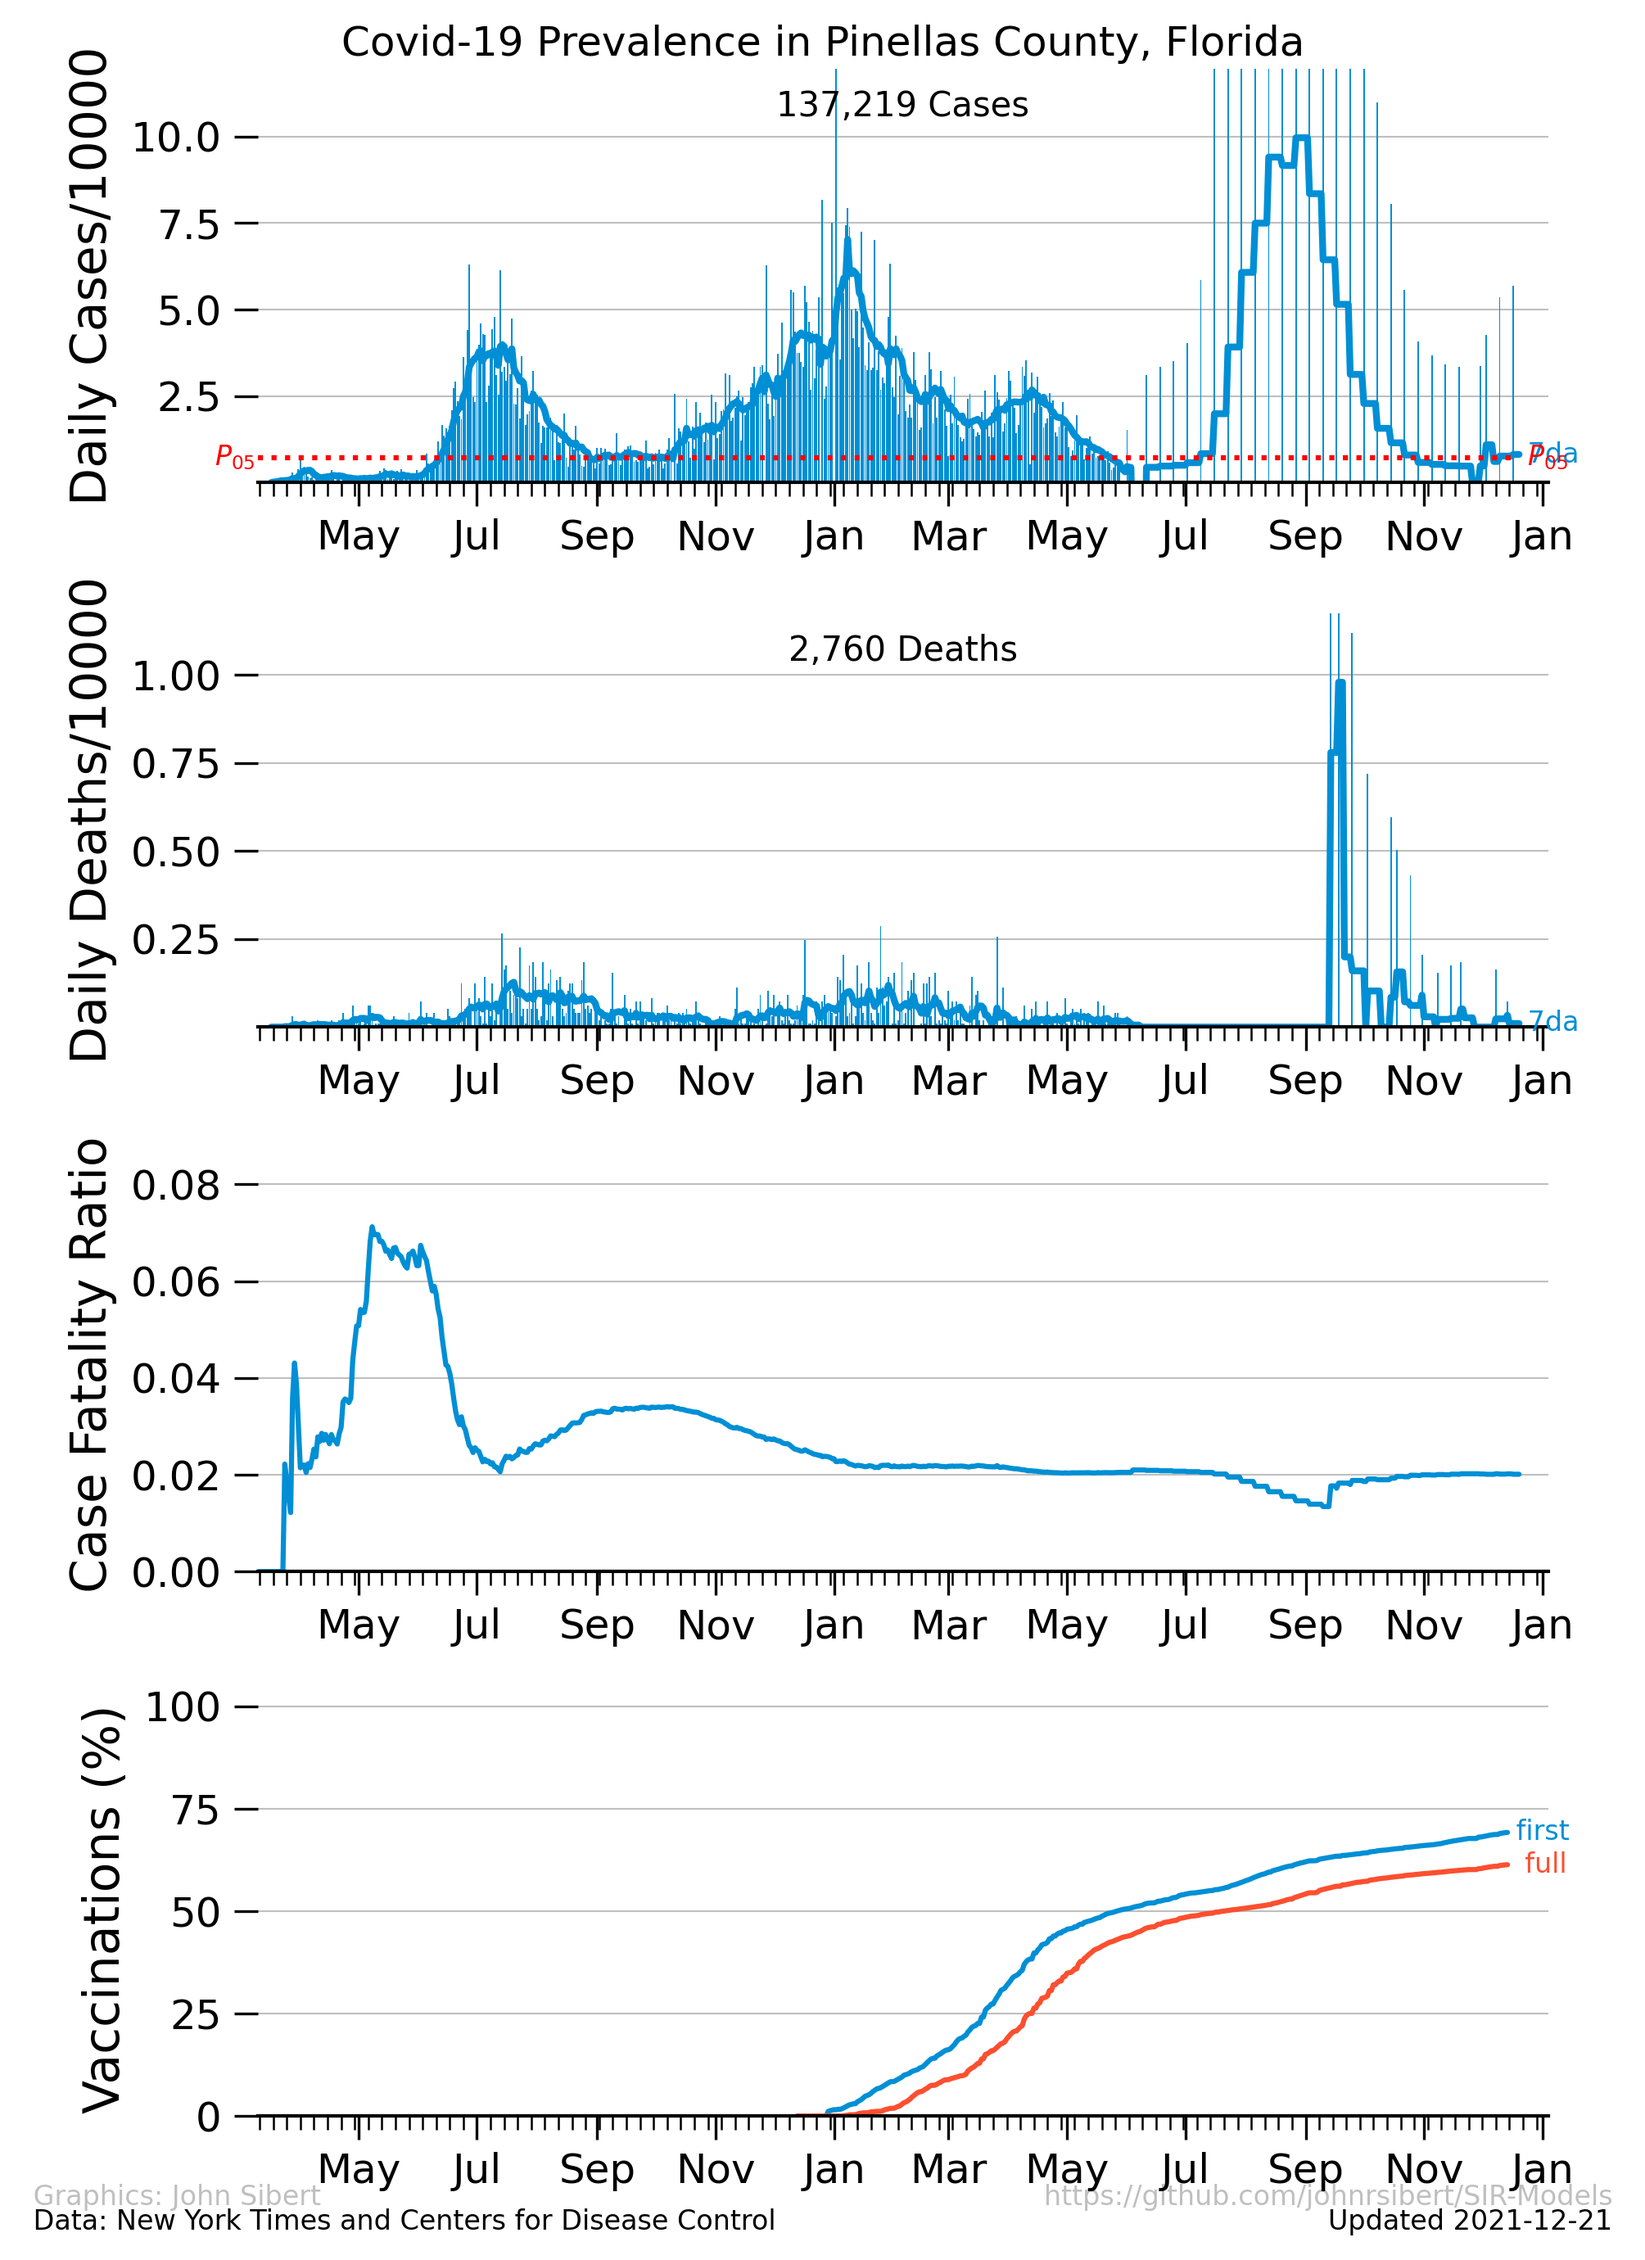
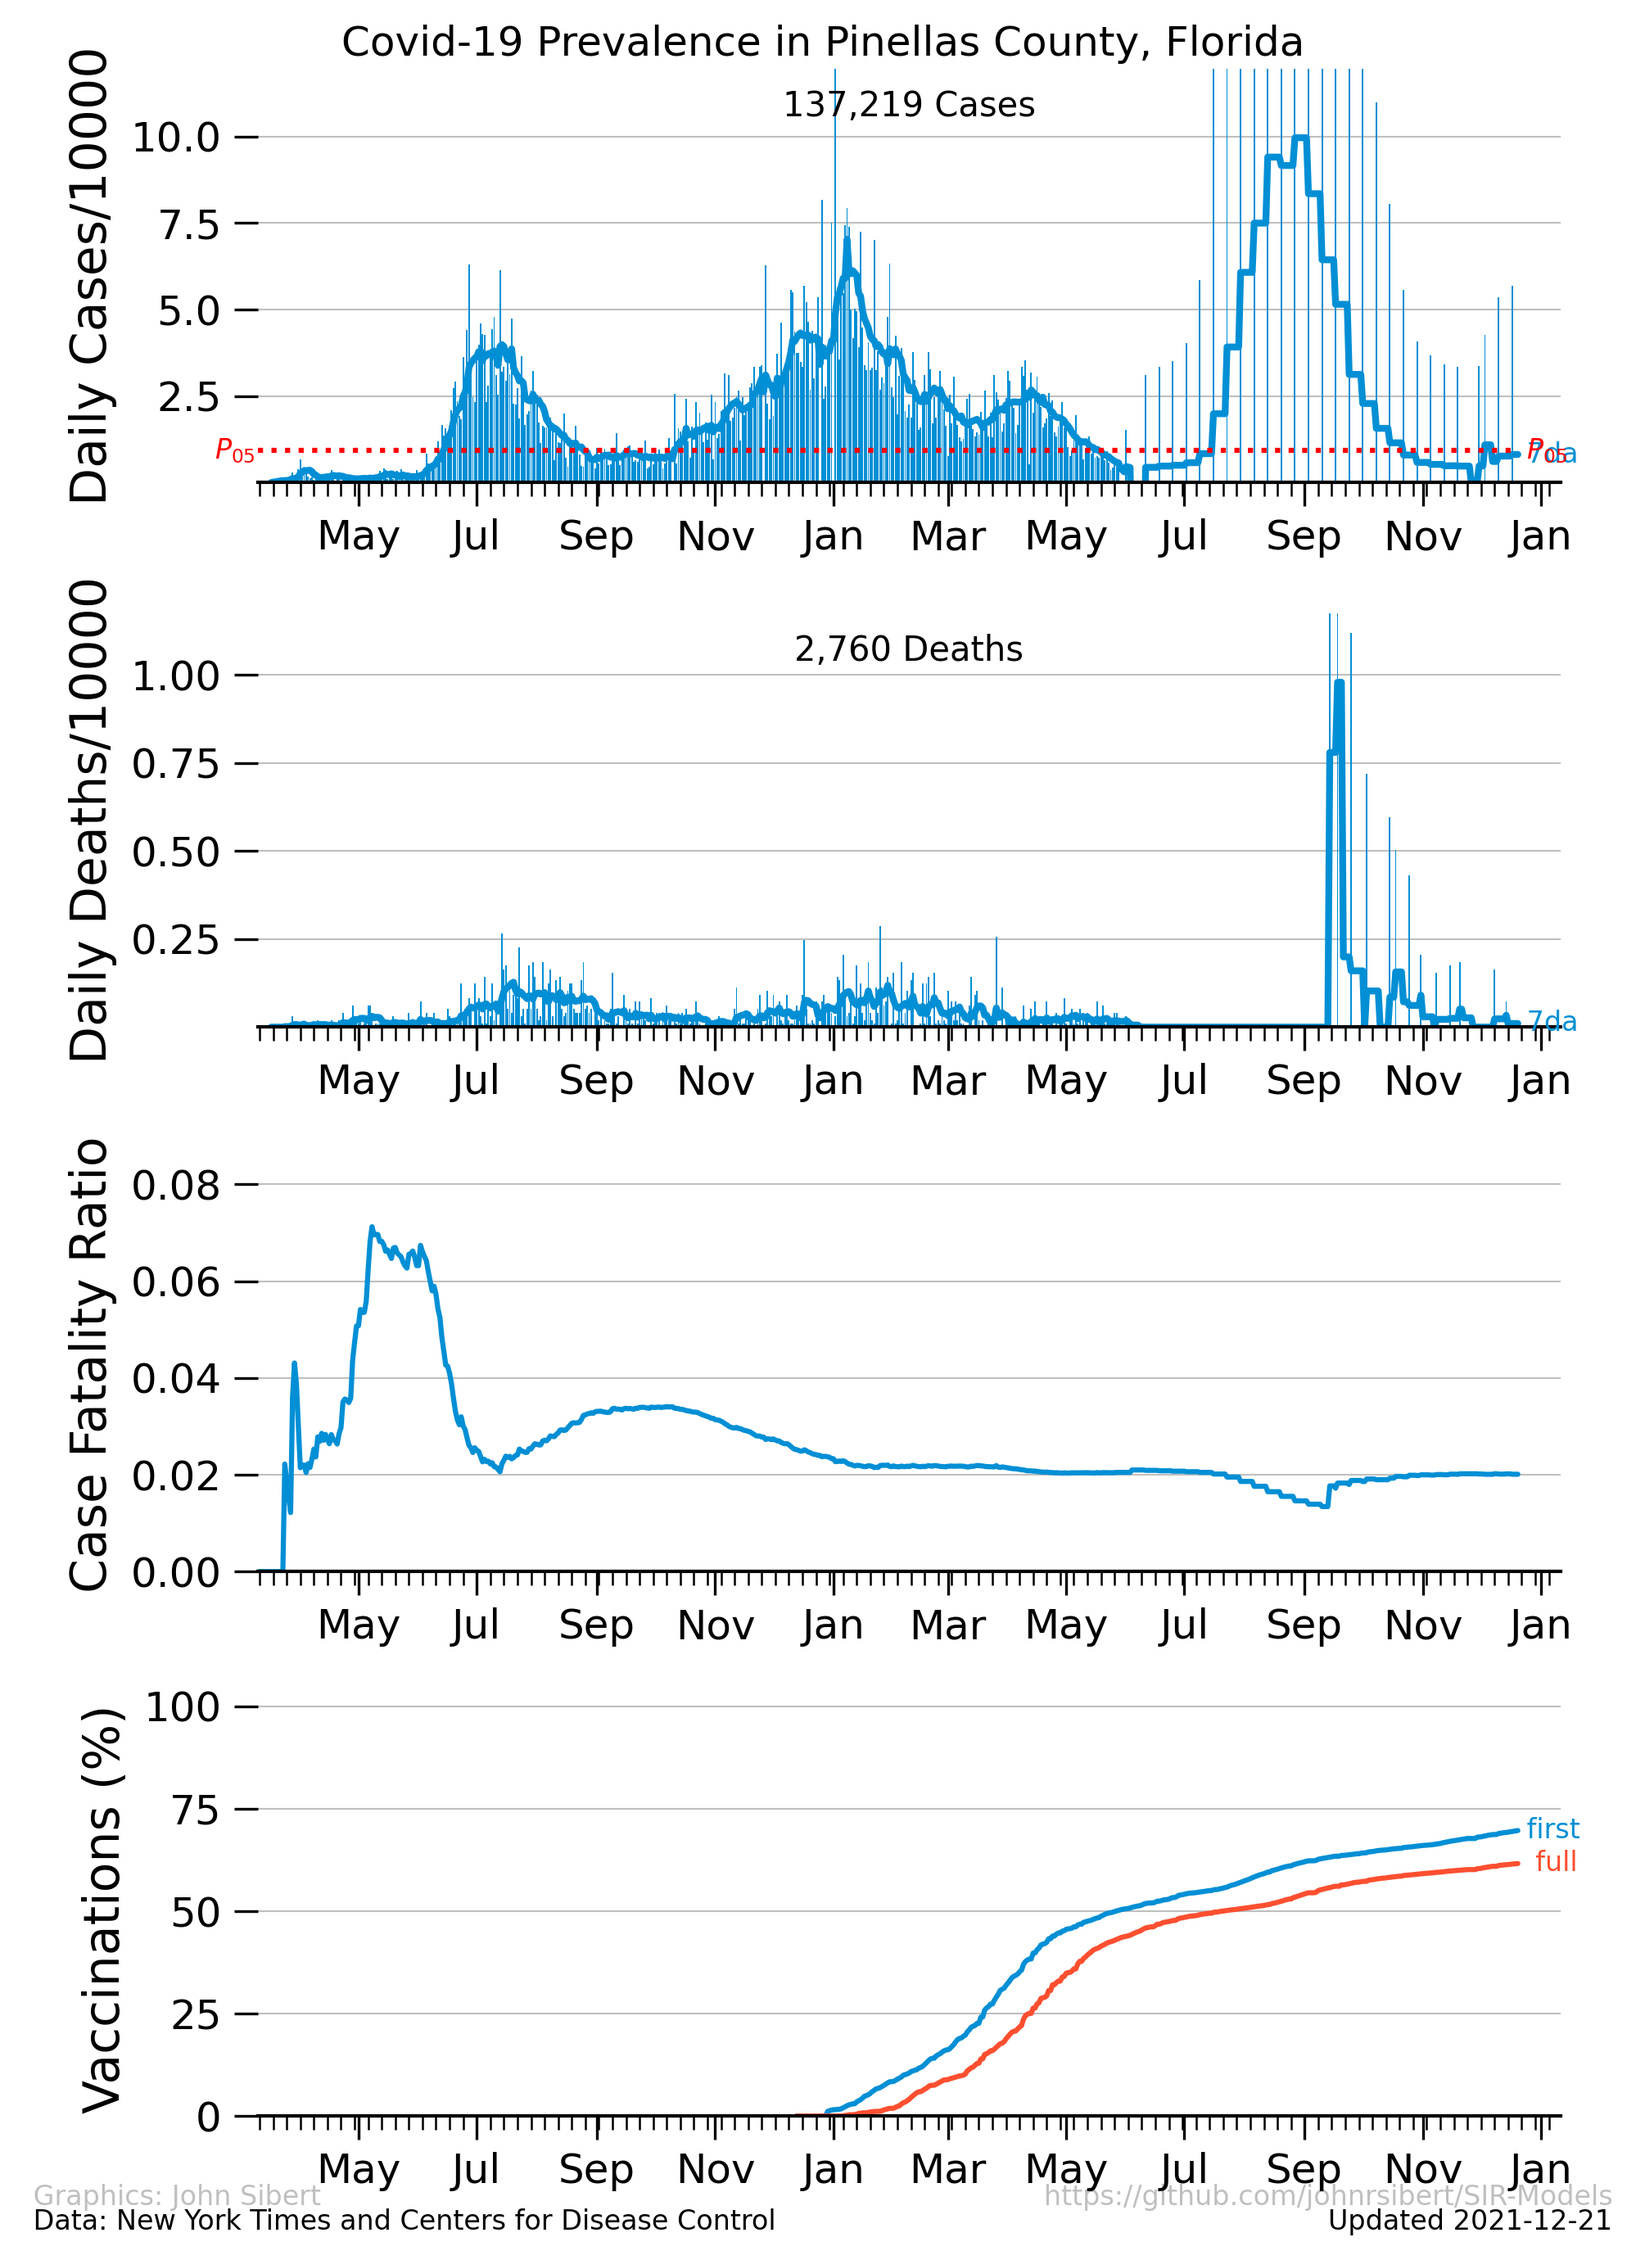
add percentile line to all prev plots; upgrade geography selection

diff --git a/python/cv21.py b/python/cv21.py
@@ -283,8 +283,7 @@ def web_update():
     print('Updated CDC vax data')
 
 def make_dat_files():
-    nyt_counties = pd.read_csv(cv.GeoIndexPath,header=0,comment='#')
-#   gg_filter = nyt_counties['flag'] == 1
+    nyt_counties = cv.GeoIndex # pd.read_csv(cv.GeoIndexPath,header=0,comment='#')
     gg_filter = nyt_counties['flag'].str.contains('m')
     gg = nyt_counties[gg_filter]
     print(gg)
@@ -296,10 +295,13 @@ def make_dat_files():
         tmpG.read_nyt_data('county')
         tmpG.read_vax_data()
         tmpG.write_dat_file()
-        tmpG.plot_prevalence(save=True,cumulative=False, show_order_date=False,
-             show_superspreader=False,per_capita=True,nax = 4)
+     #  tmpG.plot_prevalence(save=True,cumulative=False, show_order_date=False,
+     #      show_superspreader=False,per_capita=True,nax = 4)
 
 def update_fits(njob=4):
+    
+    make_dat_files()    
+    
     save_wd = os.getcwd()
     print('save:',save_wd)
     print(cv.TMB_path)
@@ -320,24 +322,25 @@ def update_fits(njob=4):
     print('Finished',cmd)
     os.chdir(save_wd)
     print('current',os.getcwd())
-
-def update_shared_plots():
+    
+def make_prevalence_plots(flags = ['m']):
     quartiles = GG.plot_prevalence_comp_histo(flag='500000',window=15,save=True, 
                                               signature=True)
     print('precalence quartiles:',type(quartiles))
     print(quartiles)
     print('q[0.05] =',quartiles[0.05])
-    update_html()
-
-    nyt_counties = pd.read_csv(cv.GeoIndexPath,header=0,comment='#')
-    gg_filter = nyt_counties['flag'].str.contains('s')
-#   print(gg_filter)
+    
+    nyt_counties = cv.GeoIndex
+    # get rid of blank flag fields
+    nyt_counties = nyt_counties[ nyt_counties['flag'] != ' ']
+    
+    gg_filter = pd.Series(index=nyt_counties.index,dtype=bool)
+    # 'or' the flags with the flag field
+    for f in flags:
+        gg_filter = gg_filter | nyt_counties['flag'].str.contains(f)
+        
     gg = nyt_counties[gg_filter]
-    print('gg:')
-    print(gg)
-    save_path = cv.graphics_path
-    cv.graphics_path = cv.cv_home+'PlotsToShare/'
-    plt.rc('figure', max_open_warning = 0)
+    
     for g in range(0,len(gg)):
         print(gg['county'].iloc[g])
         tmpG = GG.Geography(name=gg['county'].iloc[g], enclosed_by=gg['state'].iloc[g],
@@ -347,45 +350,36 @@ def update_shared_plots():
         else:
             tmpG.read_nyt_data('county')
             tmpG.read_vax_data()
-
-
-#       tmpG.read_nyt_data('county')
+            
         tmpG.plot_prevalence(save=True,signature=True,cumulative=False,
                              show_order_date=False,per_capita=True,low_prev=quartiles[0.05])
-
-    GG.plot_prevalence_comp_TS(flag='m',low_prev=quartiles[0.05],save=True, signature=True)
-
-#   tmpG = GG.Geography(name='Vancouver Island',enclosed_by='British Columbia',code='BC')
-#   tmpG.read_BCHA_data()
-#   tmpG.plot_prevalence(save=True,signature=True,cumulative=False,
-#                        show_order_date=False)
-
-
-    cv.graphics_path = save_path
-
-#   os.system('git commit ~/Projects/SIR-Models/PlotsToShare/\*.png -m "Update PlotsToShare"')
-#   os.system('git push')
-
+   
+def update_shared_plots():
+    
+    shared_plots = ['AlamedaCA_prevalence.png','District_of_ColumbiaDC_prevalence.png', 
+                    'FairfaxVA_prevalence.png','HonoluluHI_prevalence.png',
+                    'Los_AngelesCA_prevalence.png','MarinCA_prevalence.png', 
+                    'MendocinoCA_prevalence.png','MultnomahOR_prevalence.png',
+                    'OtsegoNY_prevalence.png','PinellasFL_prevalence.png',
+                    'PlumasCA_prevalence.png','San_DiegoCA_prevalence.png',
+                    'San_FranciscoCA_prevalence.png','Santa_ClaraCA_prevalence.png',
+                    'SonomaCA_prevalence.png','TompkinsNY_prevalence.png',
+                    'Vancouver_IslandBC_prevalence.png']
+    #'days_of_week_1000.png','days_of_week_5.png','prevalence_comp_TS_m.png', 
+    shared_path = cv.cv_home+'PlotsToShare/'
+    for file in shared_plots:
+        cmd = 'cp -pvf '+ cv.graphics_path+file+' '+ shared_path
+        os.system(cmd)
+  
 def update_assets():
     asset_files=['prevalence_comp_TS_m.png','recent_prevalence_histo_pop.png',
                  'New_York_CityNY_prevalence.png','Los_AngelesCA_prevalence.png',
                  'CFR_all_5.png','CFR_all_0000.png','CFR_hist_all_recent.png','CFRridge_30_23.png']
-    #             'logbeta_summary_g.png','logbeta_summary_2.png','logmu_summary_g.png',
-    #             'CFR_quantiles_boxplot.png', 'days_of_week_5.png','days_of_week_1000.png']
-
-#   asset_files = ['recent_prevalence_histo_pop.png','prevalence_comp_TS_m.png',
-#                  'logbeta_summary_2.png', 'logbeta_summary_g.png',
-#                  'days_of_week_5.png','days_of_week_1000.png', 
-#                  'CFR_all_0000.png', 'CFR_all_5.png', 'CFR_hist_all_recent.png',
-#                  'logmu_summary_g.png', 'Los_AngelesCA_prevalence.png', 
-#                  'New_York_CityNY_prevalence.png','CFR_quantiles_boxplot.png']
+   
     for file in asset_files:
         cmd = 'cp -pvf '+cv.graphics_path+file+' '+cv.assets_path
         os.system(cmd)
-
-#   os.system('git commit ~/Projects/SIR-Models/assets/\*.png -m "Update assets"')
-#   os.system('git push')
-
+'''
 def plot_multi_prev(Gfile='top30.csv',mult = 10000,save=False):
 #   gg = pd.read_csv(cv.cv_home+'top30.csv',header=0,comment='#')
     gg = pd.read_csv(cv.cv_home+Gfile,header=0,comment='#')
@@ -459,7 +453,7 @@ def plot_multi_prev(Gfile='top30.csv',mult = 10000,save=False):
             
     else:
         plt.show()
-
+'''    
 def update_html():
     index_md = cv.Jon_path+'index.md'
 #   print(index_md)
@@ -926,11 +920,11 @@ def plot_prevalence_stats_TS(flag=None,per_capita=True, mult = 10000, delta_ts=T
 #update_assets()
 
 #update_everything(do_fits=False)
-#update_shared_plots()
-update_assets()
-update_html()
-make_dat_files()
-git_commit_push()
+update_shared_plots()
+#update_assets()
+#update_html()
+#make_dat_files()
+#git_commit_push()
 
 #GG.plot_prevalence_comp_TS(flag='L',save=True, signature=True)
 #GG.plot_prevalence_comp_TS(flag='H',save=True, signature=True)
@@ -940,6 +934,7 @@ git_commit_push()
 #CFR.plot_recent_CFR(save=True)
 #CFR.plot_DC_scatter(save=True)
 #CFR.plot_recent_CFR(save=True)
+#make_prevalence_plots(['L','m','s'])
 
 #qq=GG.plot_prevalence_comp_histo(flag='500000',window=15,save=False, signature=True)
 #GG.plot_prevalence_comp_TS(flag='m',low_prev=qq[0.05],save=False, signature=True)

diff --git a/python/covid21/Geography.py b/python/covid21/Geography.py
@@ -396,9 +396,9 @@ class Geography:
             if save:
                 gfile = cv.graphics_path+self.moniker+'_prevalence.png'
                 plt.savefig(gfile,dpi=300)
-                plt.show(block=False)
-                plt.pause(3)
-                plt.close()
+                #plt.show(block=False)
+                #plt.pause(3)
+                #plt.close()
                 print('plot saved as',gfile)
             else:
                 plt.show()
